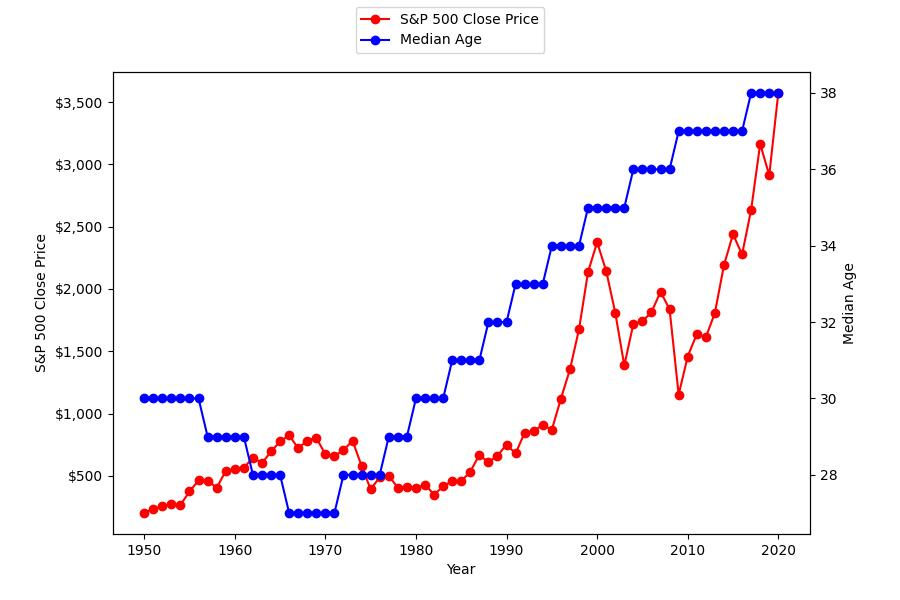
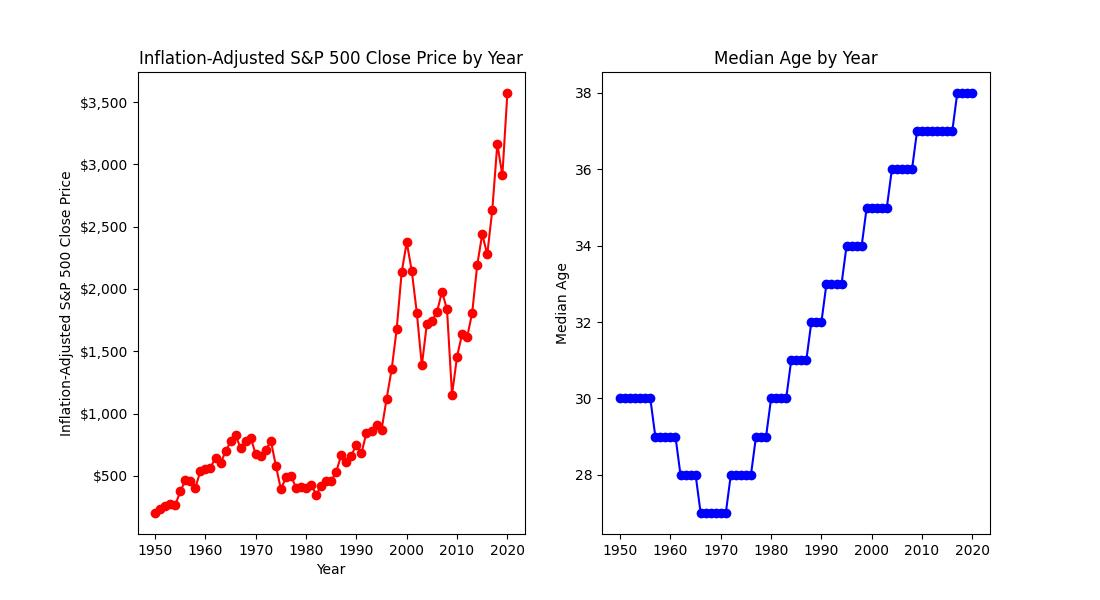
Change to side-by-side charts

diff --git a/analyze_data/stock_price_median_age_line_chart.py b/analyze_data/stock_price_median_age_line_chart.py
@@ -41,9 +41,8 @@ def read_and_join_data(stockPriceCsv, medianAgeCsv):
 
 def plot_data(data):
     """
-    Plot the stock price and median age data on a line chart with the 
-    same x-axis (Year), each with its own y-axis. Then, save an image of
-    the chart. 
+    Plot the stock price and median age data on side-by-side line
+    charts. Then, save an image of the chart.
     
     Parameters:
     -----------
@@ -53,30 +52,27 @@ def plot_data(data):
     """
     
     # Create figure and axis objects.
-    fig, ax = plt.subplots()
+    fig, ax = plt.subplots(nrows=1, ncols=2, figsize=(11, 6))
 
     # Plot the stock data.
-    ax.plot(data['Year'],
+    ax[0].plot(data['Year'],
             data['Close Price'],
             color='red',
             marker='o',
-            label='S&P 500 Close Price')
-    ax.set_xlabel('Year')
-    ax.set_ylabel('S&P 500 Close Price')
-    ax.yaxis.set_major_formatter('${x:,.0f}')
+               label='Inflation-Adjusted S&P 500 Close Price')
+    ax[0].set_xlabel('Year')
+    ax[0].set_ylabel('Inflation-Adjusted S&P 500 Close Price')
+    ax[0].set_title('Inflation-Adjusted S&P 500 Close Price by Year')
+    ax[0].yaxis.set_major_formatter('${x:,.0f}')
 
     # Plot the age data.
-    ax2 = ax.twinx()
-    ax2.plot(data['Year'],
+    ax[1].plot(data['Year'],
              data['Median Age'],
              color='blue',
              marker='o',
              label='Median Age')
-    ax2.set_ylabel('Median Age')
-
-    # Modify figure settings.
-    fig.legend(loc='upper center')
-    fig.set_size_inches(9, 6)
+    ax[1].set_ylabel('Median Age')
+    ax[1].set_title('Median Age by Year')
 
     # Save the chart as a file.
     fig.savefig('analyze_data/stock_price_median_age_line_chart.jpg',
